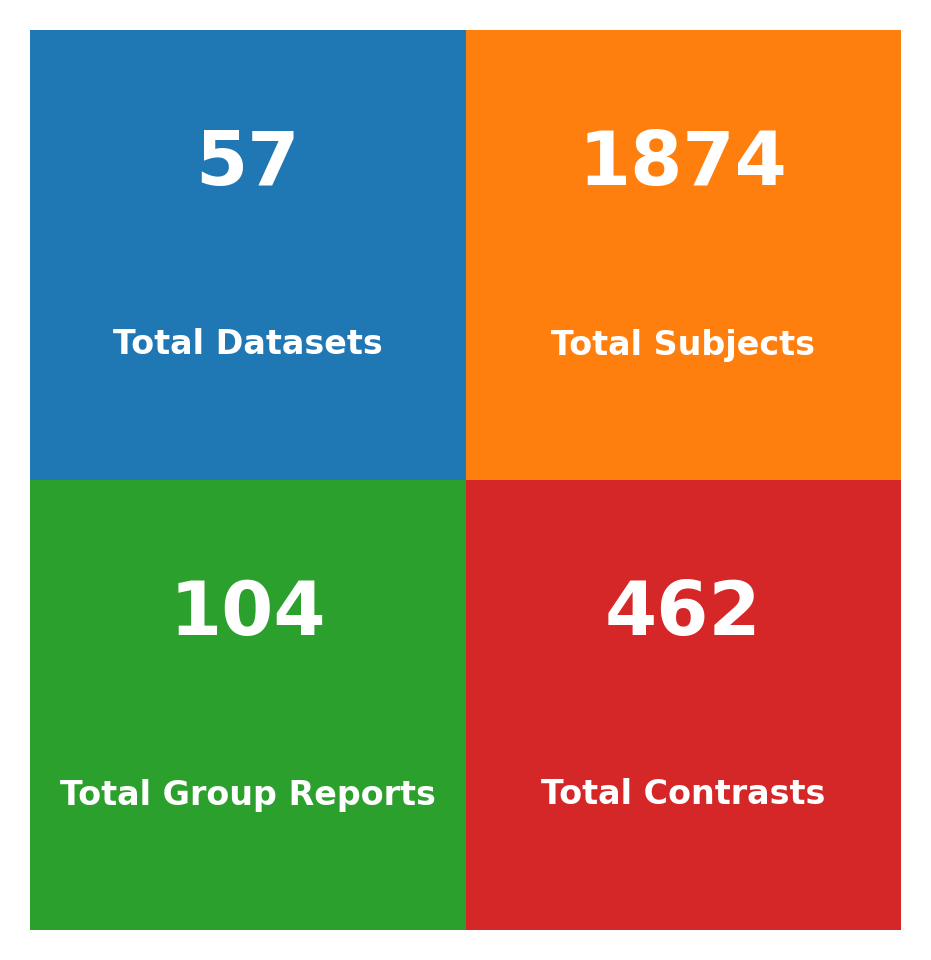
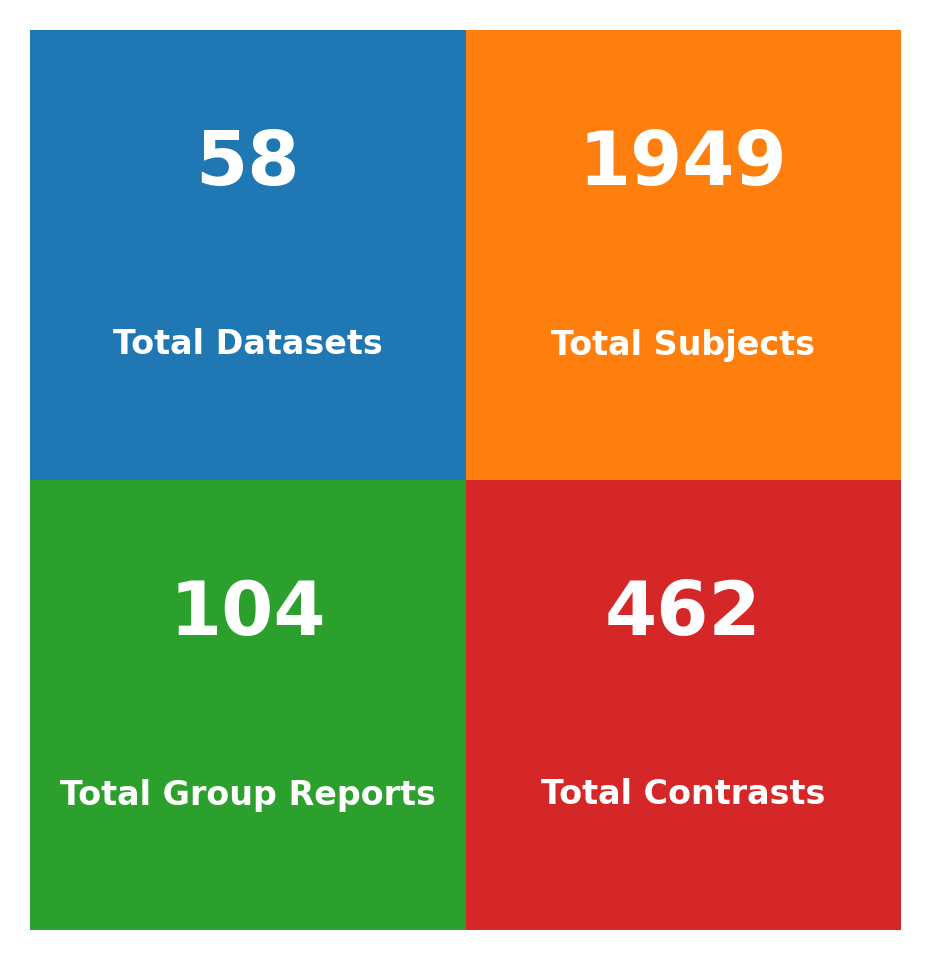
Fix #7: Revise the README file to clarify the demosntration purpose of the model

Changed region(s): [[0.6853, 0.125, 0.841, 0.2188], [0.2492, 0.125, 0.3426, 0.2188]]

diff --git a/statsmodel_specs/ds004604/README.md b/statsmodel_specs/ds004604/README.md
@@ -2,6 +2,8 @@
 
 # Dataset Details: ds004604
 
+NOTE: The events in this dataset are modeled using a traditional GLM approach purely for illustration purposes. While GLM can capture basic activation patterns, the authors' intent was to model these data using the [CVRMAP](https://github.com/ln2t/cvrmap) tool, which incorporates multiple physiological and timing features from the data and is specifically designed for cerebrovascular reactivity analysis. Furthermore, fMRIPrep's default high-pass filter of 128 seconds may not affect the 60-second CO2 inhalation periods but could potentially filter important signal components when considering the full CO2 and non-CO2 inhalation cycle (120 seconds total) as a single event. While this may not impact the current analysis, it represents an important methodological consideration for future work.
+
 ## Number of Subjects
 - BIDS Input: 50
 

diff --git a/statsmodel_specs/ds005418/README.md b/statsmodel_specs/ds005418/README.md
@@ -2,6 +2,8 @@
 
 # Dataset Details: ds005418
 
+NOTE: The events in this dataset are modeled using a traditional GLM approach purely for illustration purposes. While GLM can capture basic activation patterns, the authors' intent was to model these data using the [CVRMAP](https://github.com/ln2t/cvrmap) tool, which incorporates multiple physiological and timing features from the data and is specifically designed for cerebrovascular reactivity analysis. Furthermore, fMRIPrep's default high-pass filter of 128 seconds may not affect the 60-second CO2 inhalation periods but could potentially filter important signal components when considering the full CO2 and non-CO2 inhalation cycle (120 seconds total) as a single event. While this may not impact the current analysis, it represents an important methodological consideration for future work.
+
 ## Number of Subjects
 - BIDS Input: 35
 

diff --git a/statsmodel_specs/ds005418/group_gas/README.md b/statsmodel_specs/ds005418/group_gas/README.md
@@ -2,6 +2,7 @@
 
 The size of the Fitlins Derivatives for ds005418 gas is 473M with 428 files.
 
+
 ## 1. Statistical Analysis [Boilerplate]
 
 The below is an automatically generated report for the statistical analyses performed on this task and dataset. Some reporting standards from the 'Statistical Modeling & Inference' section of the COBIDAS checklist ([Nichols et al., 2017](https://www.nature.com/articles/nn.4500)) are adopted here.

diff --git a/README.md b/README.md
@@ -7,12 +7,12 @@
 
 **Contact**: [demidenko.michael@gmail.com](mailto:demidenko.michael@gmail.com)
 
-*This repository is in active development. `Last updated: 2025-08-30`*
+*This repository is in active development. `Last updated: 2025-09-01`*
 
 
 ![OpenNeuro Fitlins Summary](docs/openneurofitlins_summary_dashboard.png)
 
-N OpenNeuro Studies: 57
+N OpenNeuro Studies: 58
 
 N OpenNeuro Task fMRI Group Summaries: 104
 
